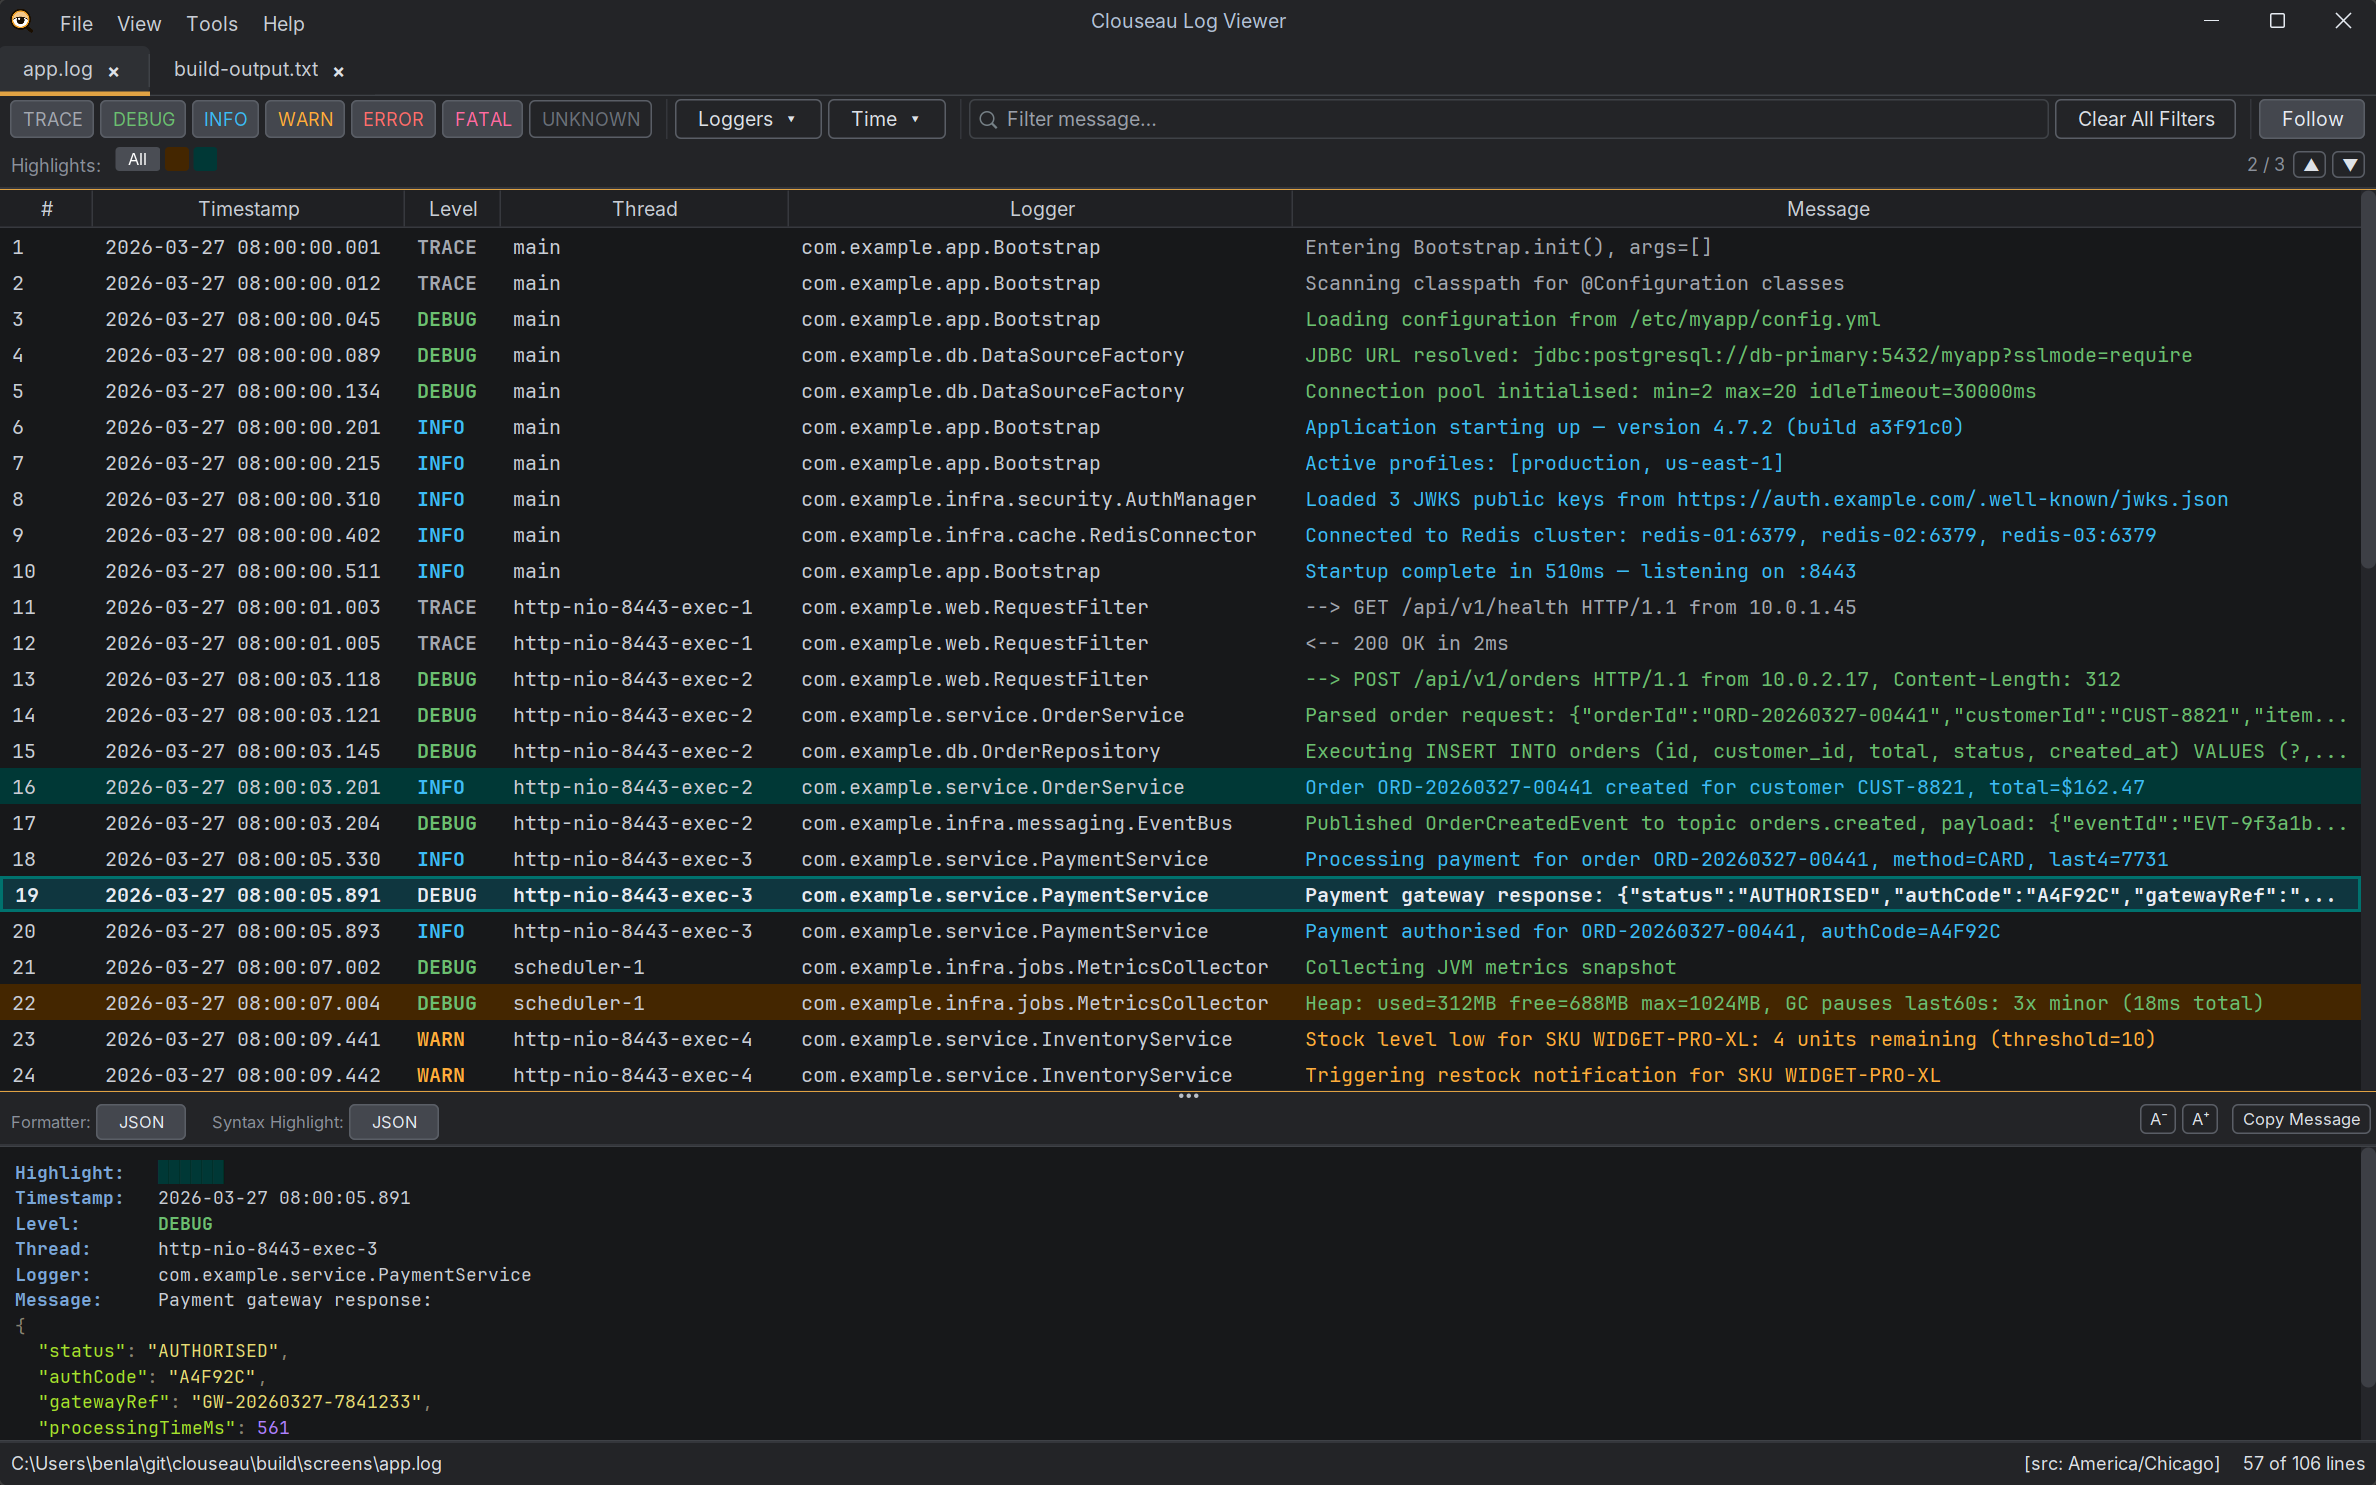
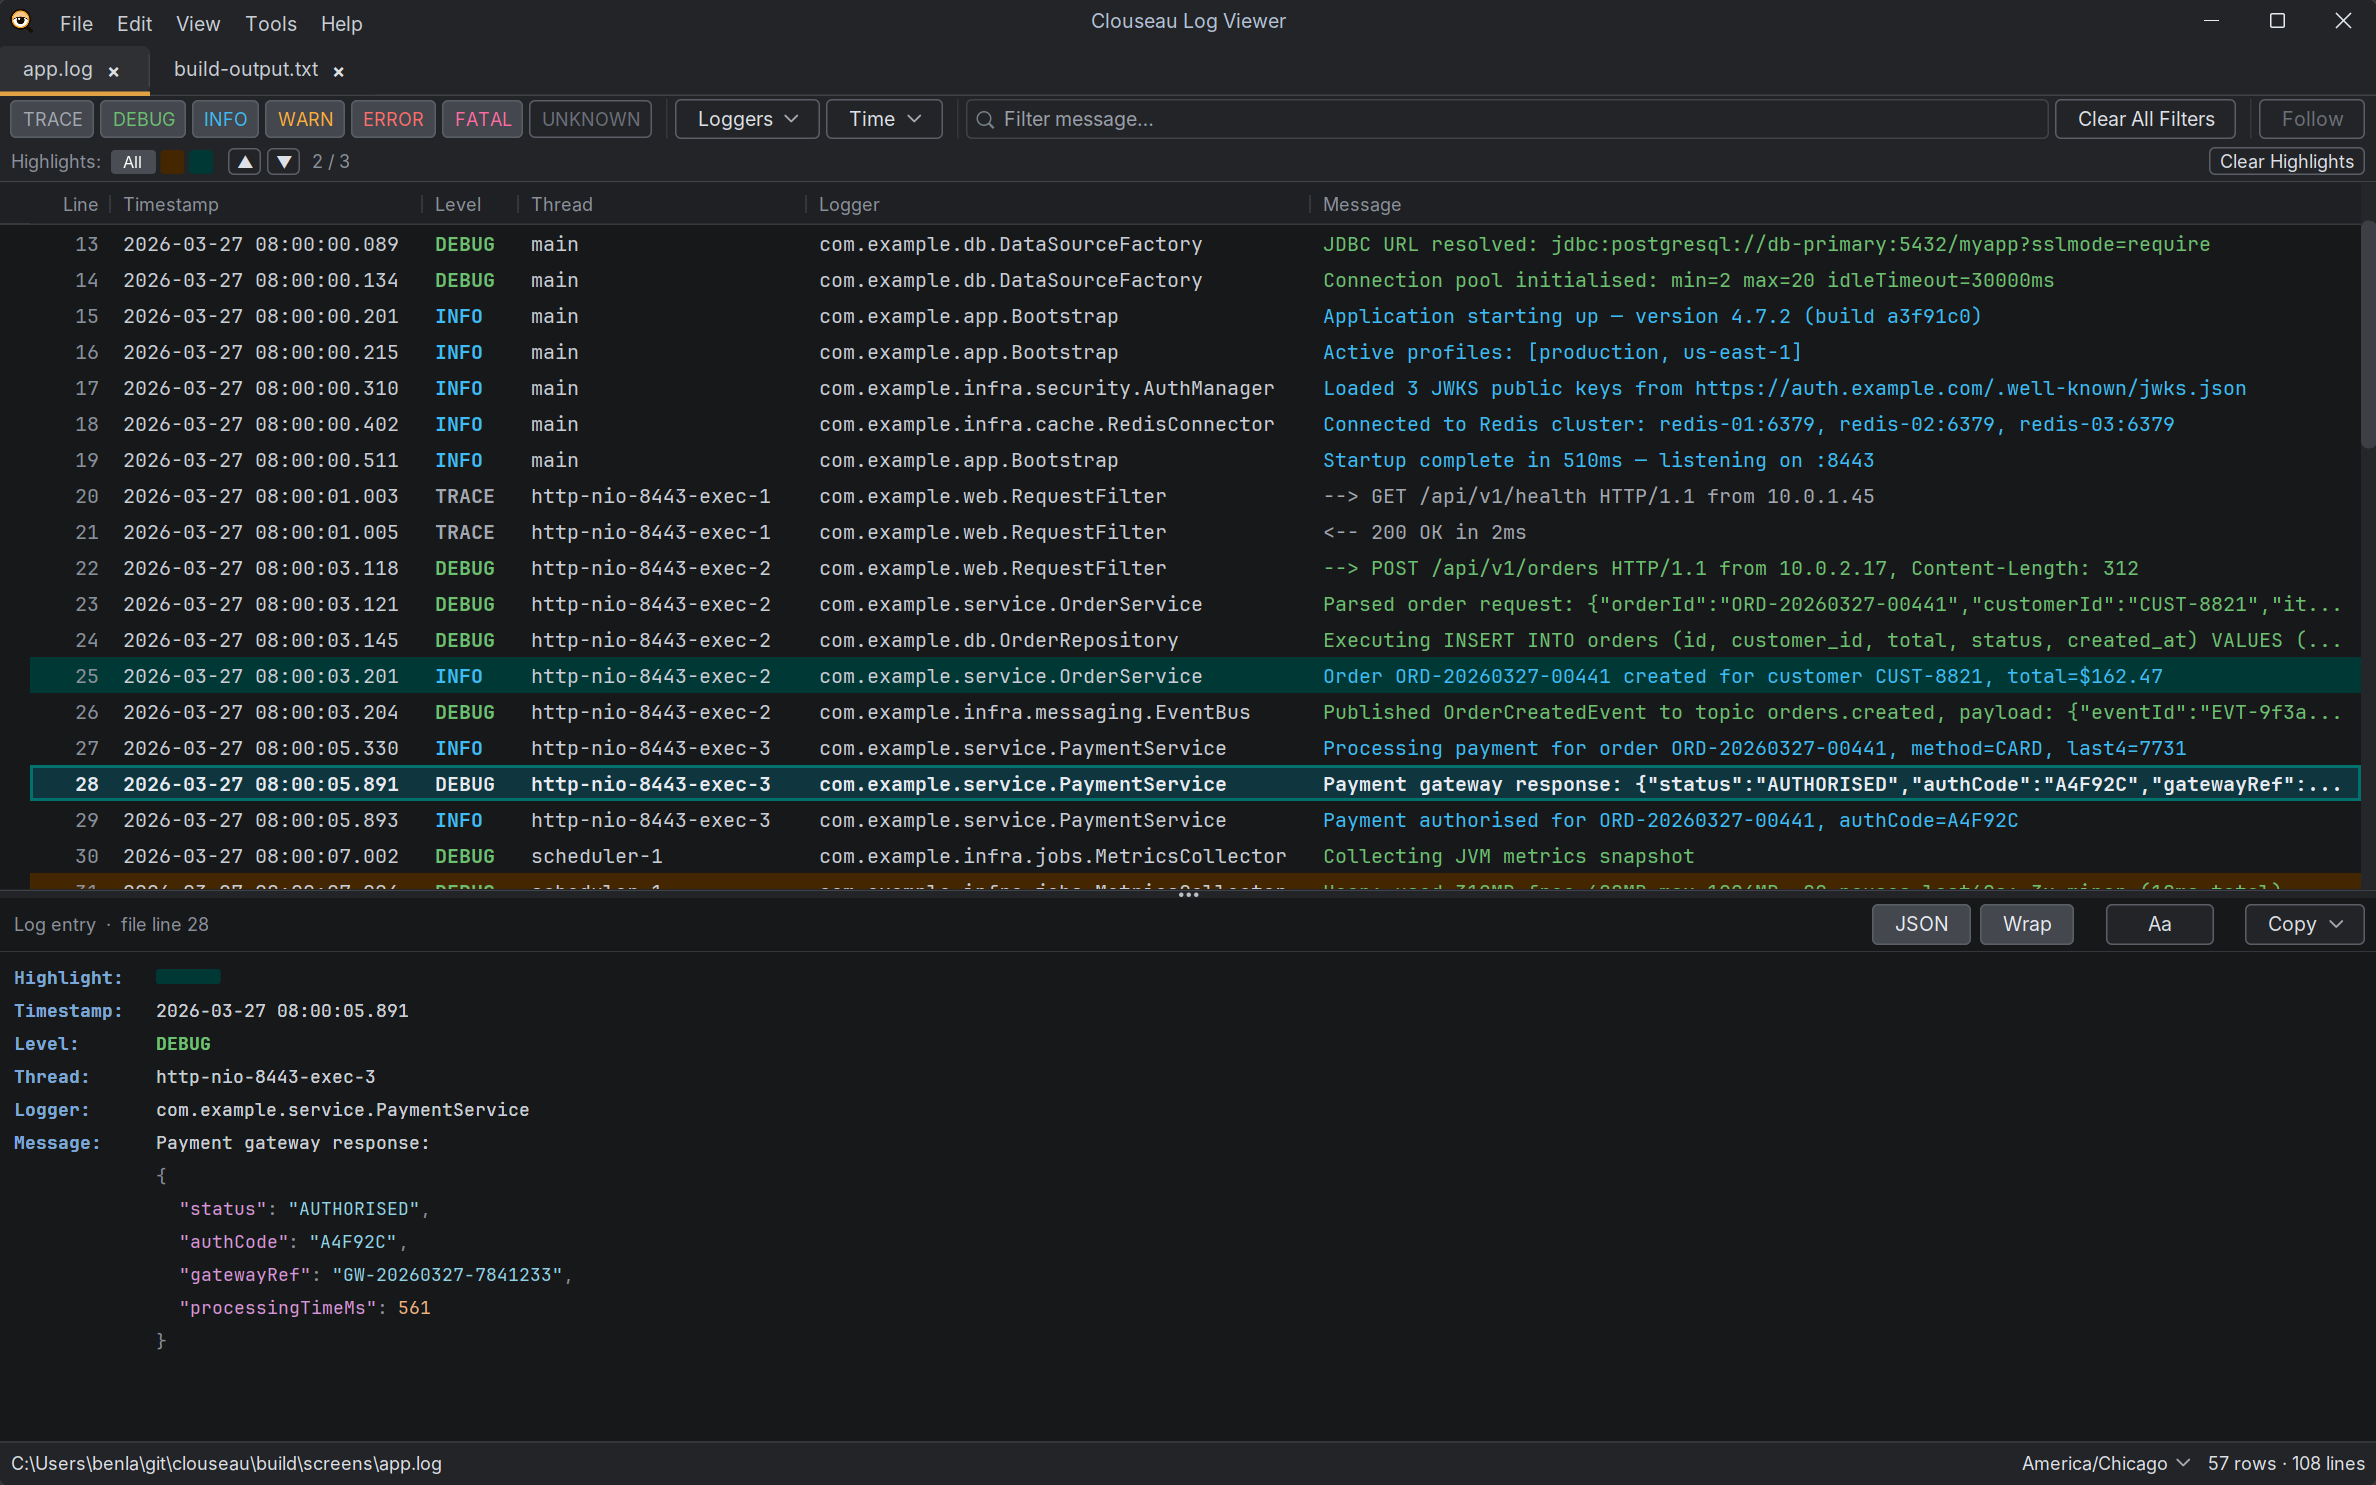
README: new intro, fresh screenshots and a Light-theme shot
- README: a one-line pitch, a "Why Clouseau" list under the main
  screenshot, a Screenshots section, and a link to the new
  "Coming from OtrosLogViewer" guide page.
- Screenshots: main-view.png and merged-view.png retaken with the
  current UI; main-view-light.png added, shown in the README.
- Guide: from-otroslogviewer.md (where things moved, converting
  .pattern files, what isn't here yet), listed in the guide index.
- ScreenshotTool ends with a Light pass, switched live as View -> Theme
  does, clearing the logger filter left by the logger-filter scene.

diff --git a/clouseau-ui/src/test/java/com/droidenx/clouseau/ui/ScreenshotTool.java b/clouseau-ui/src/test/java/com/droidenx/clouseau/ui/ScreenshotTool.java
@@ -72,6 +72,7 @@ public final class ScreenshotTool {
             mergedView(frame);
             openDialog(frame);
             parserEditor(frame);
+            lightTheme(frame);
         } finally {
             System.exit(0);
         }
@@ -179,6 +180,31 @@ public final class ScreenshotTool {
         settle(800);
         capture(dialog, "parser-editor.png");
         onEdt(() -> { dialog.dispose(); return null; });
+    }
+
+    /**
+     * The README's main view again in the Light theme, switched live as View → Theme does:
+     * {@code main-view-light.png}.
+     */
+    private static void lightTheme(MainFrame frame) throws Exception {
+        onEdt(() -> {
+            com.droidenx.clouseau.ui.theme.ThemeManager.applyTheme("Light");
+            com.droidenx.clouseau.ui.theme.ThemeManager.updateUI();
+            return null;
+        });
+        settle(1000);
+        selectTab(frame, 0);
+        settle(500);
+        // Undo the logger filter set for logger-filter.png, so the scene matches main-view.png.
+        TabPanel tab = onEdt(() -> tabAt(frame, 0));
+        onEdt(() -> {
+            find(tab, JButton.class, b -> Messages.get("filter.clear").equals(b.getText())).doClick();
+            return null;
+        });
+        settle(800);
+        selectRow(waitForRows(frame, 0), "Payment gateway response");
+        settle(800);
+        capture(frame, "main-view-light.png");
     }
 
     // ── Setup ─────────────────────────────────────────────────────────────────

diff --git a/guide/from-otroslogviewer.md b/guide/from-otroslogviewer.md
@@ -1,0 +1,113 @@
+---
+title: Coming from OtrosLogViewer
+parent: User Guide
+nav_order: 8
+---
+
+# Coming from OtrosLogViewer
+{: .no_toc }
+
+Clouseau grew out of years of using OtrosLogViewer, and much of it will feel familiar: a
+table of parsed entries, level colors, filters, marking lines and adding notes. This page
+covers where things moved, how to bring your log formats over, and what Clouseau doesn't
+do (yet).
+
+1. TOC
+{:toc}
+
+## What carries over
+
+| In OtrosLogViewer | In Clouseau |
+|---|---|
+| Opening a log, choosing a parser | **File → Open…** (`Ctrl+O`) or drag the file onto the window. The parser is detected from the first lines; the [open dialog](opening-files.md#the-open-dialog) lets you choose one. |
+| Tailing a log | **Follow** in the filter bar, for any file. See [Following live logs](following.md). |
+| Level, thread, class and time filters | The [filter bar](reading-and-filtering.md): levels, a logger tree, extra fields, a time range and text, all combined. |
+| Searching | **Find** (`Ctrl+F`) searches every column of the rows the filters show. |
+| Marking lines | [Highlights](reading-and-filtering.md#highlights): right-click rows and pick a color, then step through them by color. |
+| Notes | [Notes](annotations-and-review.md) on any line. |
+| Merging logs | [Merged views](merged-views.md): several logs in one timeline, each with its own parser, timezone and clock correction. |
+| Remote logs over SFTP | [SSH](following.md) follows a server's log with `tail -F`, and can browse the server's folders. |
+| Pattern-based log formats | The [parser editor](parsers.md#the-parser-editor) (**Tools → Parser Editor…**). See below for converting your `.pattern` files. |
+| Plugins | Clouseau [plugins](settings.md#plugins) add parsers, formatters, syntax highlighters and live log sources. |
+
+## What works differently
+
+- **Nothing to save.** Highlights and notes are saved as you make them, in a file next to
+  the log (`app.log` gets `app.log.clouseau`), and come back whenever the log is opened.
+- **Sharing findings.** Instead of saving marked lines to a new file, **File → Export for
+  Review…** packs the log and your notes into one `.zip`. Your colleague opens it like any
+  log and sees every note and highlight. See [Review bundles](annotations-and-review.md#exporting-for-review).
+- **Large files.** Clouseau doesn't load a file into memory: it indexes it on disk, at
+  about 29 bytes of memory per line, so you rarely need to raise the memory limit, and no
+  line is dropped from a file you open.
+- **Compressed logs.** `.gz` files and `.zip` archives open directly; for a zip with several
+  logs, you choose which ones, in separate tabs or merged.
+- **Sessions.** Clouseau reopens your windows and tabs, with their filters, the next time
+  it starts. Named sessions keep one set of logs per project.
+- **Files no parser reads** open as plain text, with an offer to create a parser for them.
+
+## Bringing over your log formats
+
+### The easy way: paste your logging pattern
+
+If you know the pattern your application logs with (from its `logback.xml`,
+`log4j2.xml` or `application.properties`), you don't need your old `.pattern` file:
+
+1. Open **Tools → Parser Editor…** and click **New Parser**.
+2. Choose **Made from: Logback / Log4j pattern** and paste the pattern, such as
+   `%d{yyyy-MM-dd HH:mm:ss.SSS} [%thread] %-5level %logger - %msg%n`.
+3. Paste a line from your log as the **Sample line**, or use **Test with File…**, to check
+   it matches, then click **OK**.
+
+### Converting a `.pattern` file
+
+An OtrosLogViewer `.pattern` file describes a line with keywords, which Clouseau's
+**Template** parsers also use. For a file like this:
+
+```properties
+name=My App
+type=log4j
+pattern=TIMESTAMP [THREAD] LEVEL LOGGER - MESSAGE
+dateFormat=yyyy-MM-dd HH:mm:ss,SSS
+```
+
+1. Create a new parser in the parser editor and give it the same **Name**.
+2. Choose **Made from: Template**.
+3. Copy the `pattern` line, and put the `dateFormat` in braces after `TIMESTAMP`:
+
+   ```
+   TIMESTAMP{yyyy-MM-dd HH:mm:ss,SSS} [THREAD] LEVEL LOGGER - MESSAGE
+   ```
+
+4. Test it with a sample line or a file, and click **OK**.
+
+Keywords map like this:
+
+| `.pattern` keyword | Clouseau template |
+|---|---|
+| `TIMESTAMP` with `dateFormat` | `TIMESTAMP{format}` |
+| `LEVEL`, `THREAD`, `LOGGER`, `MESSAGE` | The same keywords |
+| `CLASS` | `LOGGER`, if the pattern has no `LOGGER`; the class name then fills the logger column and the logger tree |
+| Any other value in brackets (`NDC`, `PROP(key)`) | `{name}`, such as `[{request_id}]`, shown as its own column |
+
+Date formats are mostly the same letters (`yyyy`, `MM`, `dd`, `HH`, `mm`, `ss`, `SSS`).
+If a format can't be read, the parser editor says why under the field.
+
+A format a template can't describe, such as values that aren't in brackets, can be
+written as a **Regex** parser with named groups. See [Parsers](parsers.md).
+
+## Not in Clouseau (yet)
+
+Some OtrosLogViewer features have no equivalent today:
+
+- **Receiving logs over a socket** (a Log4j or Logback socket appender). Live sources come
+  from files, SSH, or a [source plugin](following.md#source-plugins).
+- **XML log formats** (Log4j's XML layout, `java.util.logging`'s XML). Clouseau reads
+  line-based logs; a plugin parser could add these.
+- **Remote files over SMB, FTP or HTTP.** Clouseau reads local files and follows logs over
+  SSH. Copy the file locally, or open it from a mounted share.
+- **Jumping to the source line in your IDE.**
+- **Automatic marking rules.** Highlights are set by hand.
+
+If one of these is what keeps you on OtrosLogViewer, please
+[open an issue](https://github.com/benlazaro/clouseau/issues) and say how you use it.

diff --git a/README.md b/README.md
@@ -1,6 +1,8 @@
 # Clouseau Log Viewer
 
-A log viewer for software engineers, born from a love of OtrosLogViewer and a desire to bring its core functionality into a cleaner, more modern interface. Open logs of any size, merge the logs of several services into one timeline, filter in milliseconds, and hand your annotated findings to a colleague in one file.
+**A fast, modern desktop log viewer for engineers who investigate logs for a living.**
+
+Open logs of any size, merge the logs of several services into one timeline, filter in milliseconds, and hand your annotated findings to a colleague in one file. Free and open source, for Windows, macOS and Linux.
 
 [![Latest release](https://img.shields.io/github/v/release/benlazaro/clouseau?include_prereleases&sort=semver&label=release)](https://github.com/benlazaro/clouseau/releases)
 [![Downloads](https://img.shields.io/github/downloads/benlazaro/clouseau/total?label=downloads)](https://github.com/benlazaro/clouseau/releases)
@@ -11,17 +13,30 @@ A log viewer for software engineers, born from a love of OtrosLogViewer and a de
 ![Gradle 8.8](https://img.shields.io/badge/Gradle-8.8-02303A)
 [![License MIT](https://img.shields.io/badge/License-MIT-green)](LICENSE)
 
-**[Download](#download)** · **[User Guide](https://benlazaro.github.io/clouseau/guide/)** · **[For developers](https://benlazaro.github.io/clouseau/guide/developers.html)**
-
----
+**[⬇ Download](#download)** · **[User Guide](https://benlazaro.github.io/clouseau/guide/)** · **[Coming from OtrosLogViewer?](https://benlazaro.github.io/clouseau/guide/from-otroslogviewer.html)** · **[For developers](https://benlazaro.github.io/clouseau/guide/developers.html)**
 
 ![Main view](docs/screenshots/main-view.png)
 
 *Level colors, row highlights with the bar for jumping between them, and the detail panel pretty-printing a JSON payload.*
 
+### Why Clouseau
+
+- **Big files are fine.** A million-line, 125 MB log opens in under 50 MB of memory, and level, logger and time filters answer in milliseconds.
+- **One timeline across services.** Merge the logs of several services or servers, in different formats and timezones, and follow a request from one to the next.
+- **Findings you can hand over.** Note lines as you investigate, then send the log and your notes to a colleague as one file.
+- **Live logs, local or remote.** Follow a file like `tail -f`, or a server's log over SSH, without losing lines when it rotates.
+
+---
+
+## Screenshots
+
 ![Merged view](docs/screenshots/merged-view.png)
 
 *Three services' logs, in two formats, interleaved into one timeline. The **Source** column shows which file each line came from.*
+
+![Main view in the Light theme](docs/screenshots/main-view-light.png)
+
+*The Light theme. Switch any time with **View → Theme**.*
 
 ---
 

diff --git a/guide/index.md b/guide/index.md
@@ -8,6 +8,7 @@ has_children: true
 
 Everything Clouseau does, one topic per page. New to Clouseau? Start with
 [Opening files](opening-files.md), then [Reading and filtering](reading-and-filtering.md).
+Used OtrosLogViewer? See [Coming from OtrosLogViewer](from-otroslogviewer.md).
 
 | Page | What it covers |
 |---|---|
@@ -18,5 +19,6 @@ Everything Clouseau does, one topic per page. New to Clouseau? Start with
 | [Following live logs](following.md) | Follow mode, log rotation, SSH and source plugins |
 | [Parsers](parsers.md) | The built-in formats, the parser editor, and `parsers.json` |
 | [Themes and settings](settings.md) | Themes, every setting, keyboard shortcuts, memory and the data folder |
+| [Coming from OtrosLogViewer](from-otroslogviewer.md) | Where things moved, converting `.pattern` files, and what isn't here yet |
 
 Writing a plugin or building Clouseau yourself? See [For developers](developers.md).
